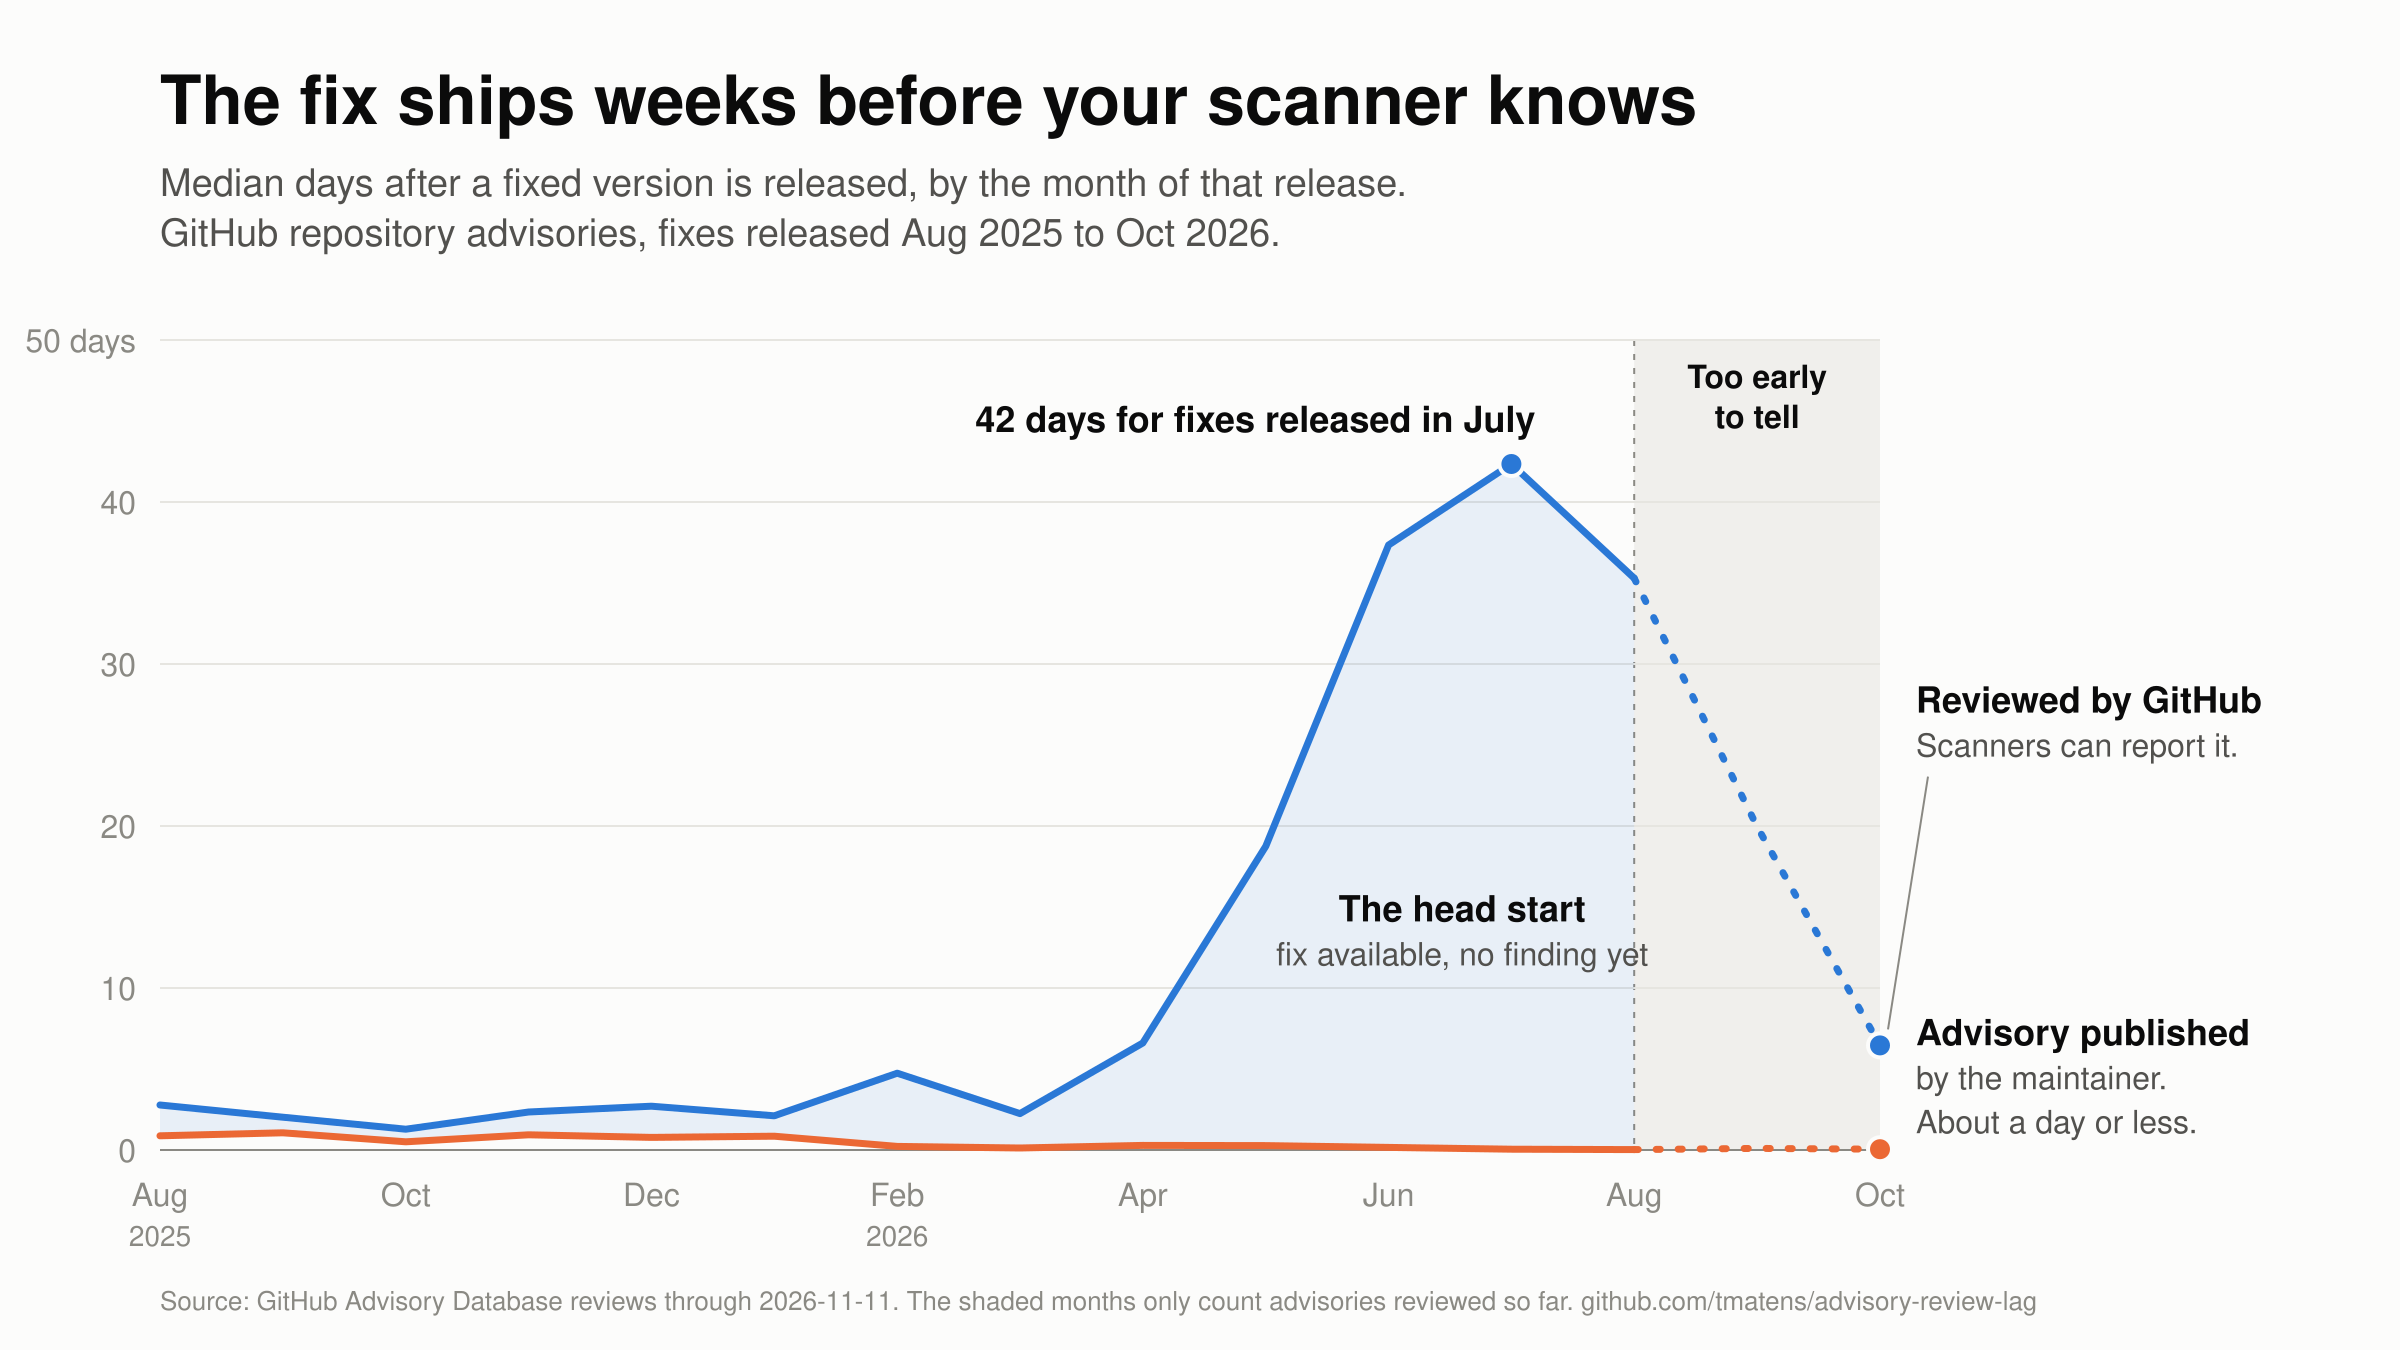
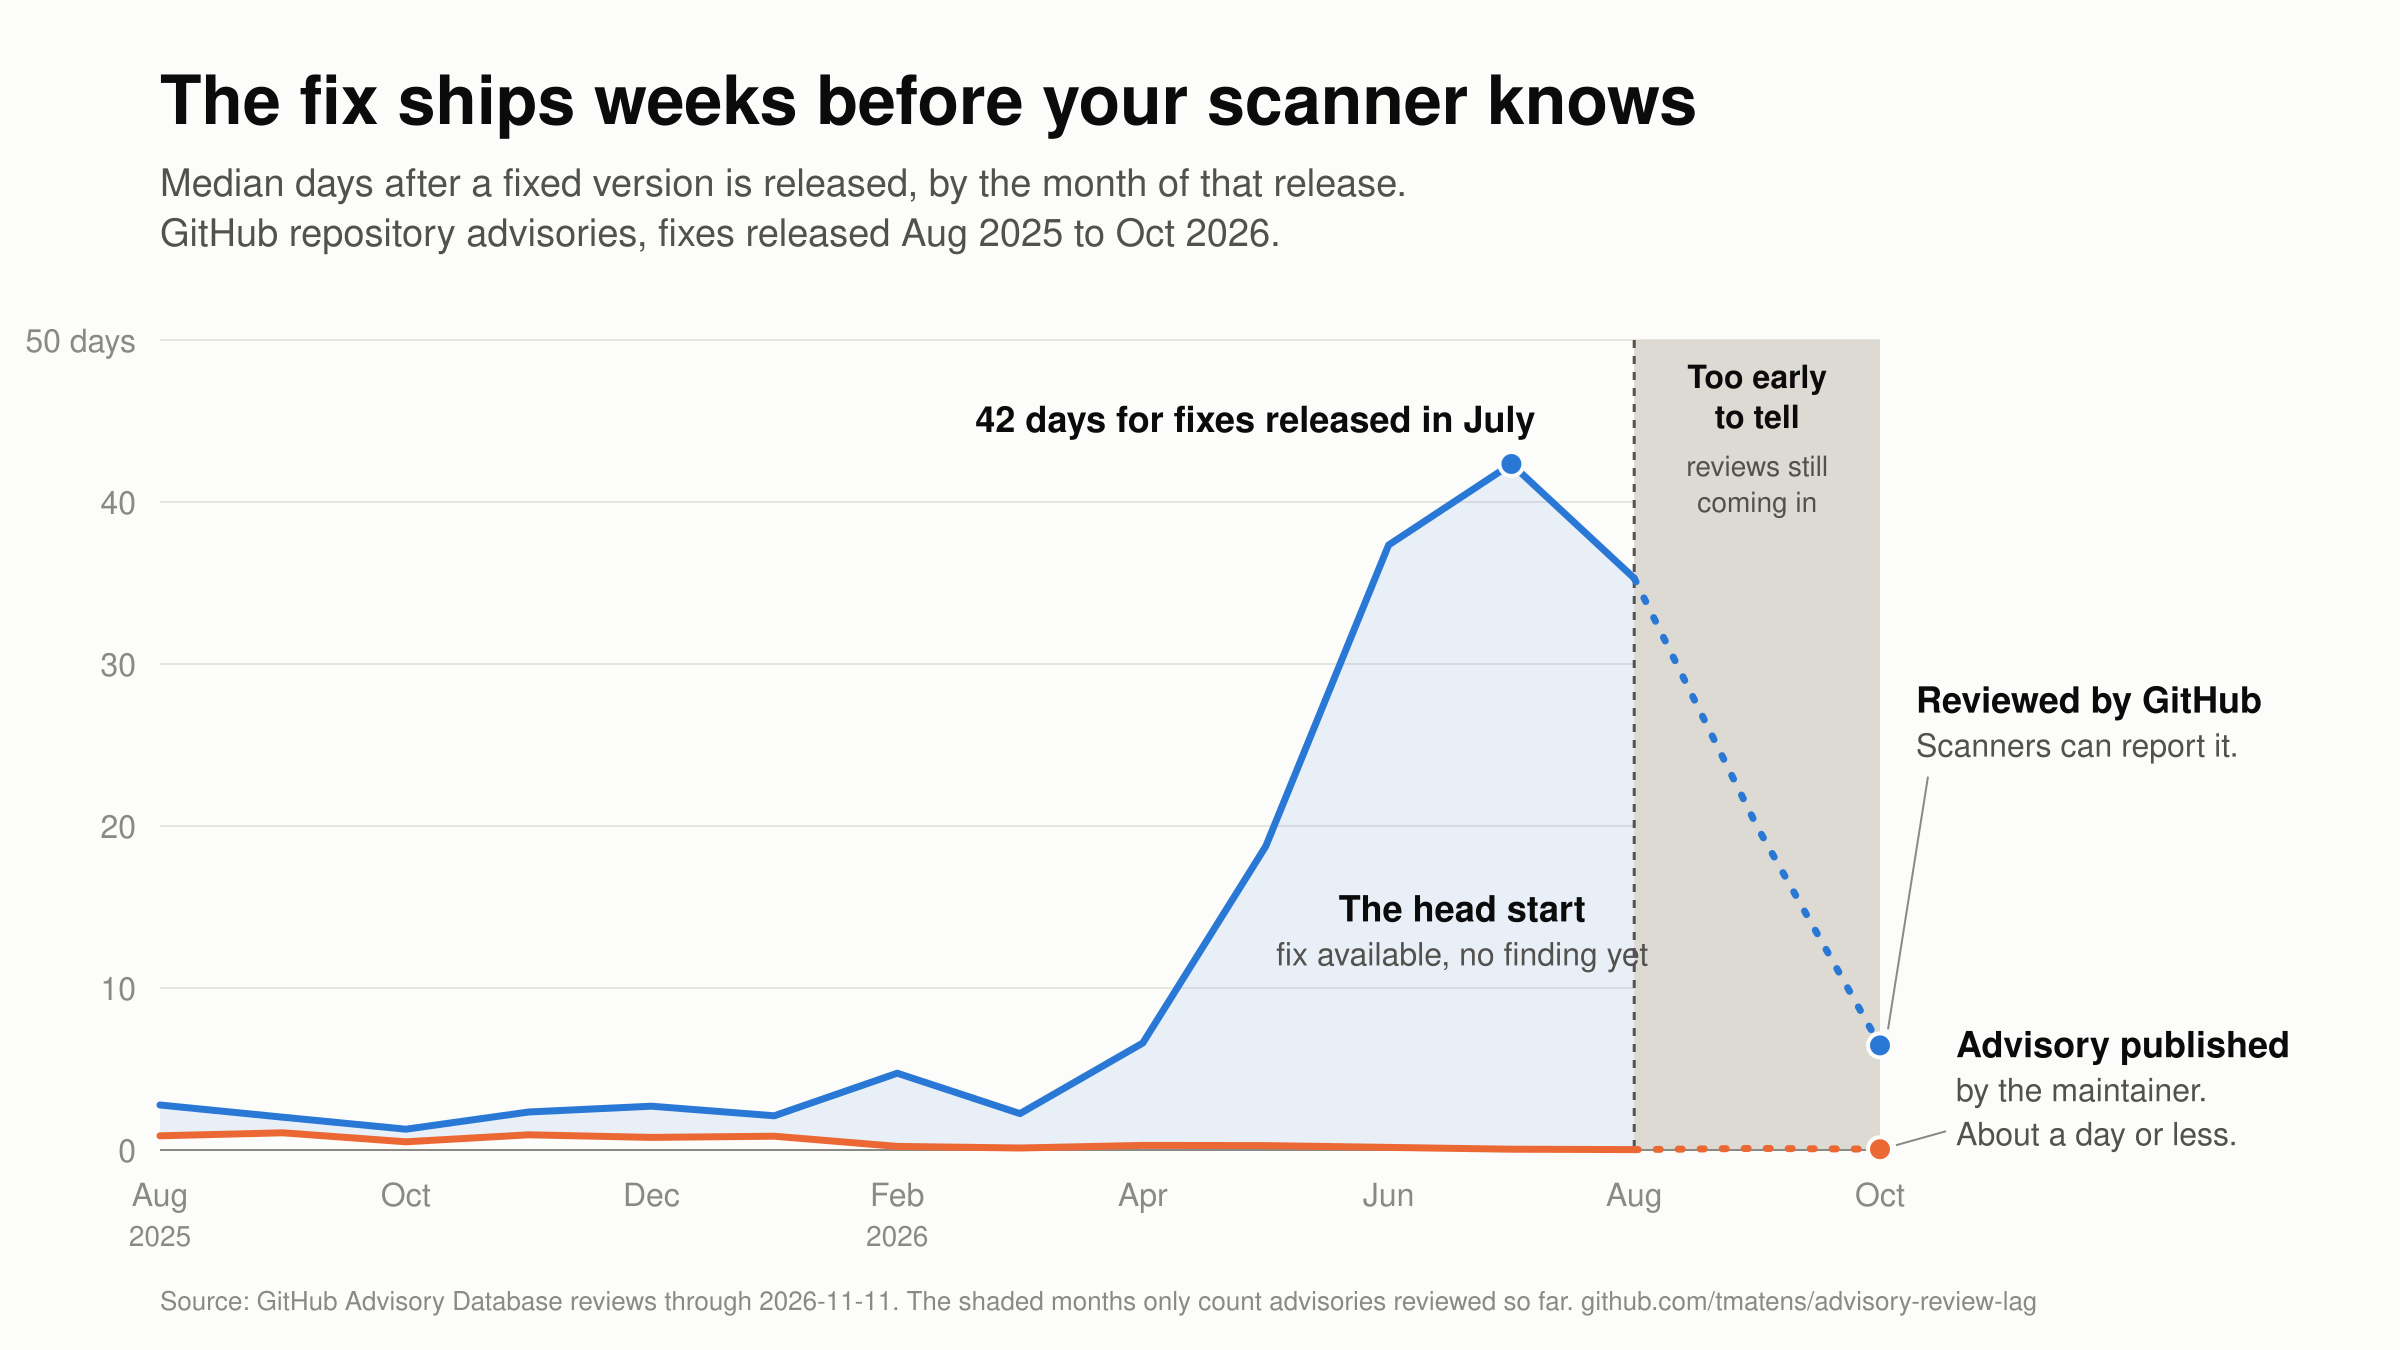
Make the too-early band on the chart easier to see (#22)
The shaded months were a pale gray that washed out when the image was
compressed. The band is darker, its label says the reviews are still coming
in, and a short line ties the orange dot to its label.

Changed region(s): [[0.6562, 0.2489, 0.9688, 0.8711]]

diff --git a/chart.py b/chart.py
@@ -18,7 +18,7 @@ ROOT = Path(__file__).parent
 W, H, LEFT, RIGHT, TOP, BOTTOM = 1200, 675, 80, 260, 170, 100
 BLUE, ORANGE = "#2a78d6", "#eb6834"
 INK, SECONDARY, MUTED, GRID, SURFACE = "#0b0b0b", "#52514e", "#8a8983", "#e6e5e0", "#fcfcfb"
-BAND = "#f0efec"
+BAND = "#dcdad2"
 FONT = 'font-family="Inter, Helvetica Neue, Helvetica, Arial, sans-serif"'
 MONTHS = ["Jan", "Feb", "Mar", "Apr", "May", "Jun", "Jul", "Aug", "Sep", "Oct", "Nov", "Dec"]
 INCOMPLETE = 2  # trailing months drawn dotted
@@ -65,15 +65,18 @@ def main():
            text(LEFT, 62, "The fix ships weeks before your scanner knows", 34, INK, 700),
            text(LEFT, 98, "Median days after a fixed version is released, by the month of that release.", 19),
            text(LEFT, 123, f"GitHub repository advisories, fixes released {first_label} to {last_label}.", 19)]
-    band_x = x(len(data) - 1 - INCOMPLETE)
-    out.append(f'<rect x="{band_x:.1f}" y="{TOP:.1f}" width="{LEFT + plot_w - band_x:.1f}" height="{plot_h:.1f}" fill="{BAND}"/>')
-    out.append(f'<line x1="{band_x:.1f}" x2="{band_x:.1f}" y1="{TOP:.1f}" y2="{TOP + plot_h:.1f}" stroke="{MUTED}" stroke-width="1" stroke-dasharray="3 4"/>')
-    out.append(text((band_x + LEFT + plot_w) / 2, TOP + 24, "Too early", 16, INK, 600, "middle"))
-    out.append(text((band_x + LEFT + plot_w) / 2, TOP + 44, "to tell", 16, INK, 600, "middle"))
     for tick in range(0, y_max + 1, 10):
         out.append(f'<line x1="{LEFT}" x2="{LEFT + plot_w}" y1="{y(tick):.1f}" y2="{y(tick):.1f}" '
                    f'stroke="{GRID if tick else MUTED}" stroke-width="1"/>')
         out.append(text(LEFT - 12, y(tick) + 6, f"{tick} days" if tick == y_max else str(tick), 16, MUTED, 400, "end"))
+    band_x = x(len(data) - 1 - INCOMPLETE)
+    out.append(f'<rect x="{band_x:.1f}" y="{TOP:.1f}" width="{LEFT + plot_w - band_x:.1f}" height="{plot_h:.1f}" fill="{BAND}"/>')
+    out.append(f'<line x1="{band_x:.1f}" x2="{band_x:.1f}" y1="{TOP:.1f}" y2="{TOP + plot_h:.1f}" stroke="{SECONDARY}" stroke-width="1.5" stroke-dasharray="4 4"/>')
+    out.append(f'<line x1="{band_x:.1f}" x2="{LEFT + plot_w}" y1="{y(0):.1f}" y2="{y(0):.1f}" stroke="{MUTED}" stroke-width="1"/>')
+    out.append(text((band_x + LEFT + plot_w) / 2, TOP + 24, "Too early", 16, INK, 600, "middle"))
+    out.append(text((band_x + LEFT + plot_w) / 2, TOP + 44, "to tell", 16, INK, 600, "middle"))
+    out.append(text((band_x + LEFT + plot_w) / 2, TOP + 68, "reviews still", 14, SECONDARY, 400, "middle"))
+    out.append(text((band_x + LEFT + plot_w) / 2, TOP + 86, "coming in", 14, SECONDARY, 400, "middle"))
     for i, (month, _, _) in enumerate(data):
         if i % 2 == 0:
             out.append(text(x(i), TOP + plot_h + 28, MONTHS[int(month[5:]) - 1], 16, MUTED, 400, "middle"))
@@ -93,8 +96,9 @@ def main():
     out.append(f'<line x1="{x(last) + 4:.1f}" y1="{y(data[last][2]) - 8:.1f}" x2="{label_x + 6:.1f}" '
                f'y2="{review_top + 32:.1f}" stroke="{MUTED}" stroke-width="1"/>')
     out += [text(label_x, review_top, "Reviewed by GitHub", 18, INK, 600), text(label_x, review_top + 22, "Scanners can report it."),
-            text(label_x, low - 52, "Advisory published", 18, INK, 600), text(label_x, low - 30, "by the maintainer."),
-            text(label_x, low - 8, "About a day or less.")]
+            text(label_x + 20, low - 46, "Advisory published", 18, INK, 600), text(label_x + 20, low - 24, "by the maintainer."),
+            text(label_x + 20, low - 2, "About a day or less.")]
+    out.append(f'<line x1="{x(last) + 8:.1f}" y1="{low - 2:.1f}" x2="{label_x + 15:.1f}" y2="{low - 9:.1f}" stroke="{MUTED}" stroke-width="1"/>')
     peak = max(range(len(data)), key=lambda i: data[i][2])
     peak_month = ["January", "February", "March", "April", "May", "June", "July", "August", "September",
                   "October", "November", "December"][int(data[peak][0][5:]) - 1]
